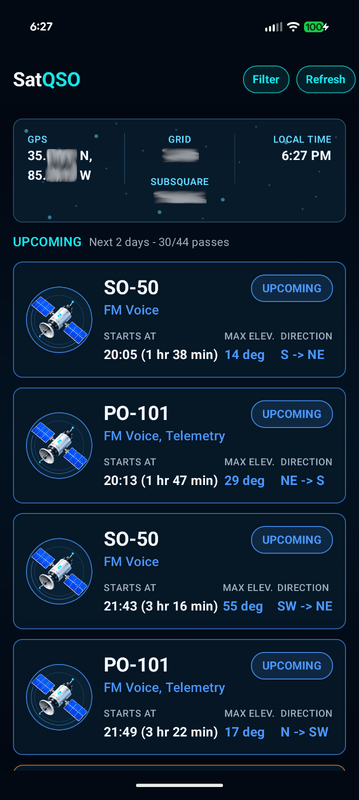
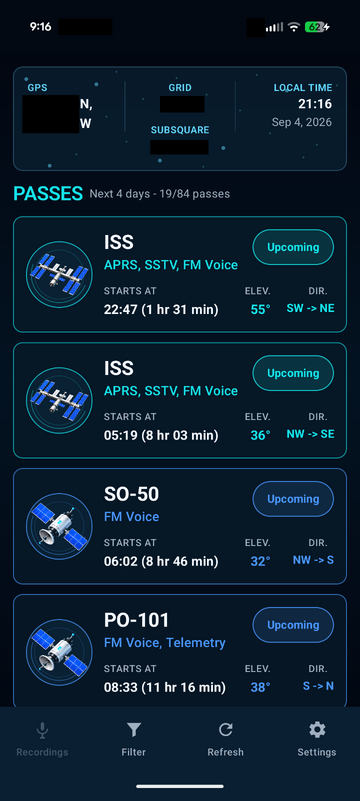
Refresh README screenshots

diff --git a/README.md b/README.md
@@ -25,7 +25,6 @@ SatQSO is an Android pass planner for amateur-radio satellites. It calculates pa
 <table>
   <tr>
     <td><a href="docs/screenshots/home.png"><img src="docs/screenshots/home-1.2.1-thumb.png" alt="Upcoming pass list"></a></td>
-    <td><a href="docs/screenshots/home-lower.png"><img src="docs/screenshots/home-lower-thumb.png" alt="More upcoming passes"></a></td>
   </tr>
 </table>
 
@@ -38,9 +37,14 @@ SatQSO is an Android pass planner for amateur-radio satellites. It calculates pa
 <table>
   <tr>
     <td><a href="docs/screenshots/pass-detail.png"><img src="docs/screenshots/pass-detail-1.2.1-thumb.png" alt="Compass pass tracking"></a></td>
+    <td><a href="docs/screenshots/pass-detail-middle.png"><img src="docs/screenshots/pass-detail-middle-thumb.png" alt="Pass frequencies and operating information"></a></td>
     <td><a href="docs/screenshots/pass-detail-bottom.png"><img src="docs/screenshots/pass-detail-bottom-thumb.png" alt="Pass timeline and operating information"></a></td>
   </tr>
 </table>
+
+### Settings
+
+[![Settings](docs/screenshots/settings-thumb.png)](docs/screenshots/settings.png)
 
 ## Install
 
